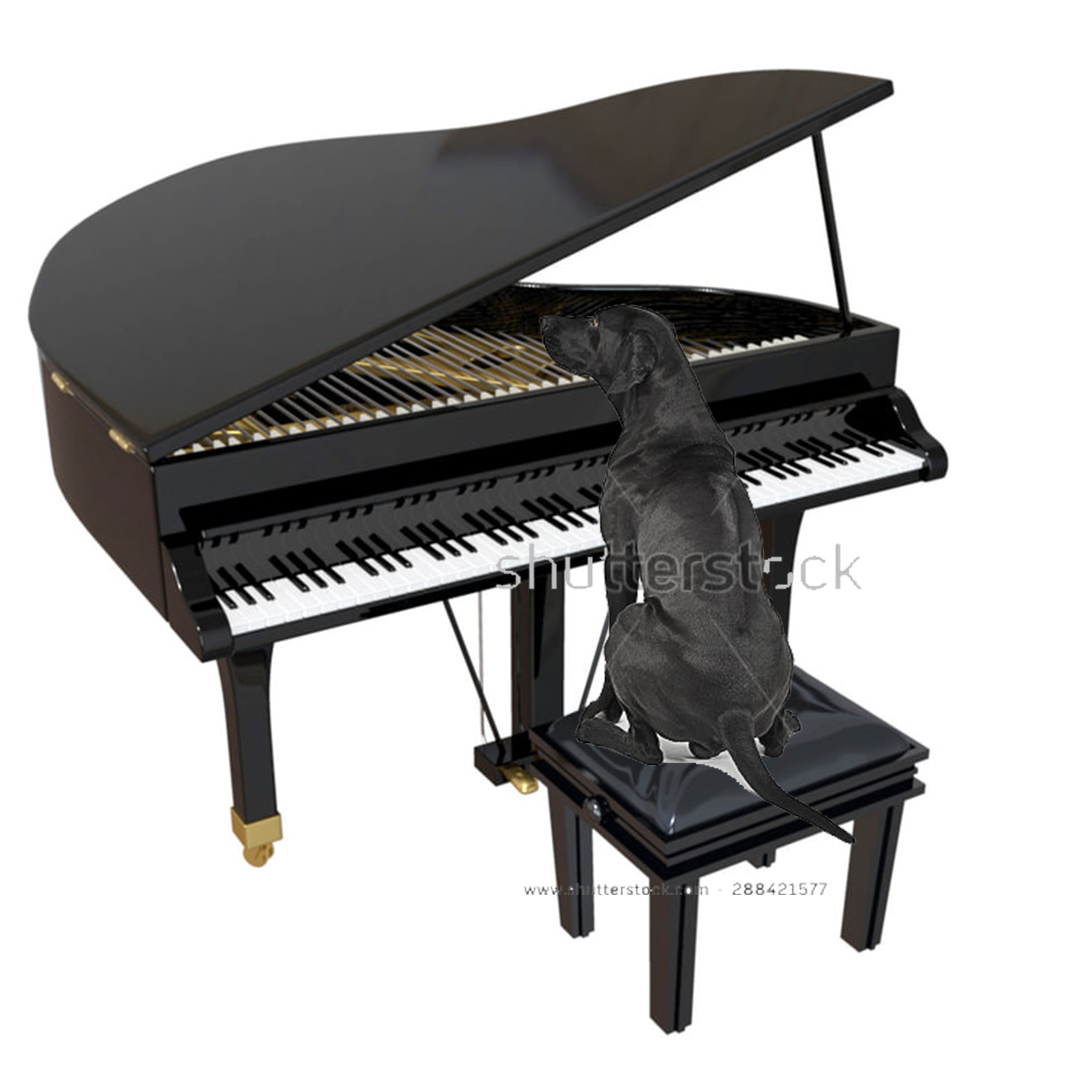
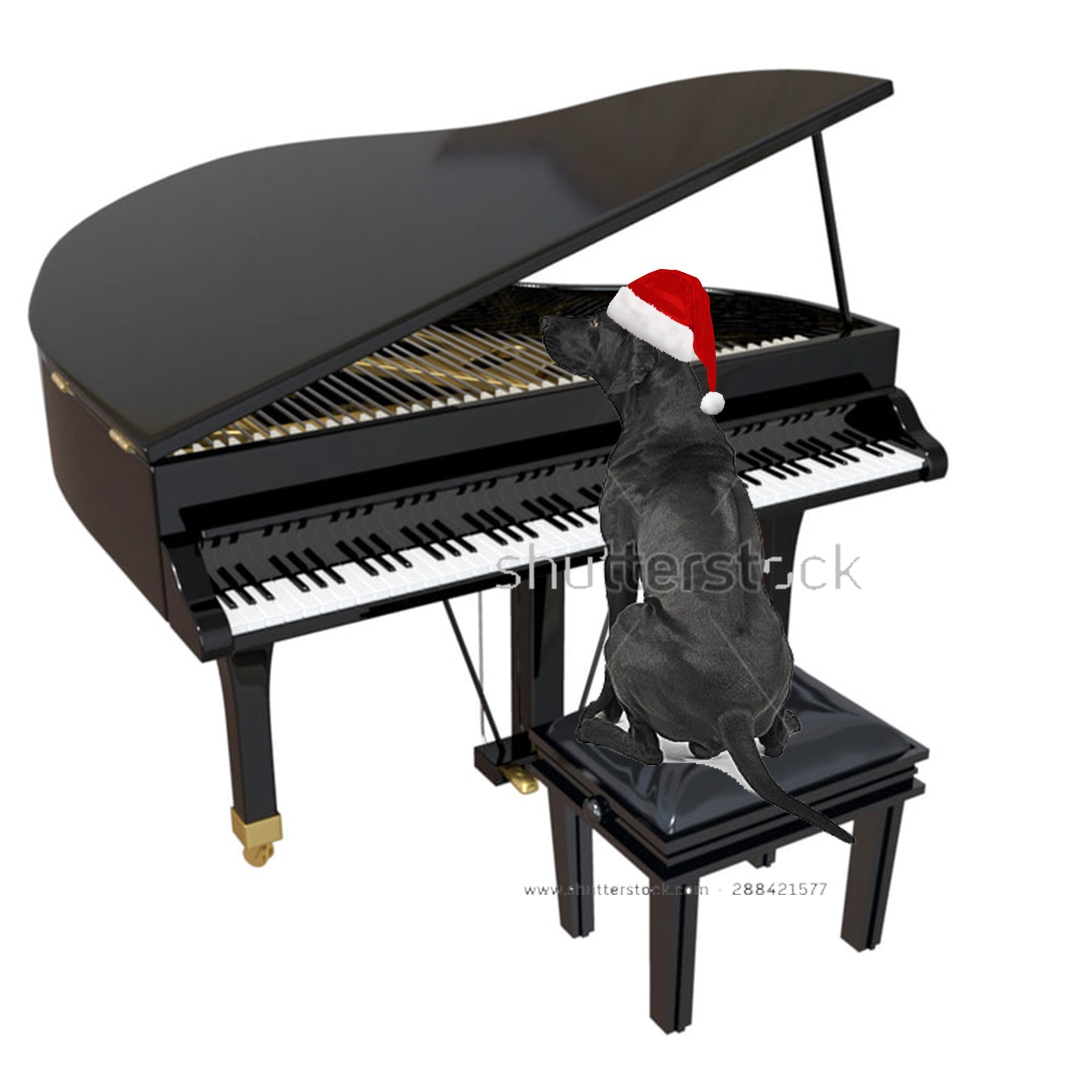
merry xmas🎄

Changed region(s): [[0.55, 0.2444, 0.6722, 0.3972]]

diff --git a/index.html b/index.html
@@ -42,6 +42,7 @@
       <button id="btn-shonichi" onclick="lyric_shonichi()">Shonichi</button>
       <button id="btn-kimiwa" onclick="lyric_kimiwa()">Kimi wa Melody</button>
       <button id="btn-365" onclick="lyric_365()">365 Nichi no Kamihikouki</button>
+      <button id="btn-lastchristmas" onclick="lyric_last_christmas()">Last Christmas</button>
       <textarea id="lyric" rows="30" cols="50" disabled>Lyric</textarea>
     </div>
 

diff --git a/lyrics.js b/lyrics.js
@@ -99,3 +99,17 @@ mnnnmxnb
 mnnnnnmxnb
 `
 }
+
+function lyric_last_christmas() {
+  document.getElementById("lyric").innerHTML = `cccx xxcccxcB
+cccx xxcccxcB
+nnnb bbnnnbnn
+BBBc ccBBBcB
+
+cccx h cc B x
+jj cc B x 
+jXxXj
+Bc j BbBc
+jXxXXxXh
+`
+}
